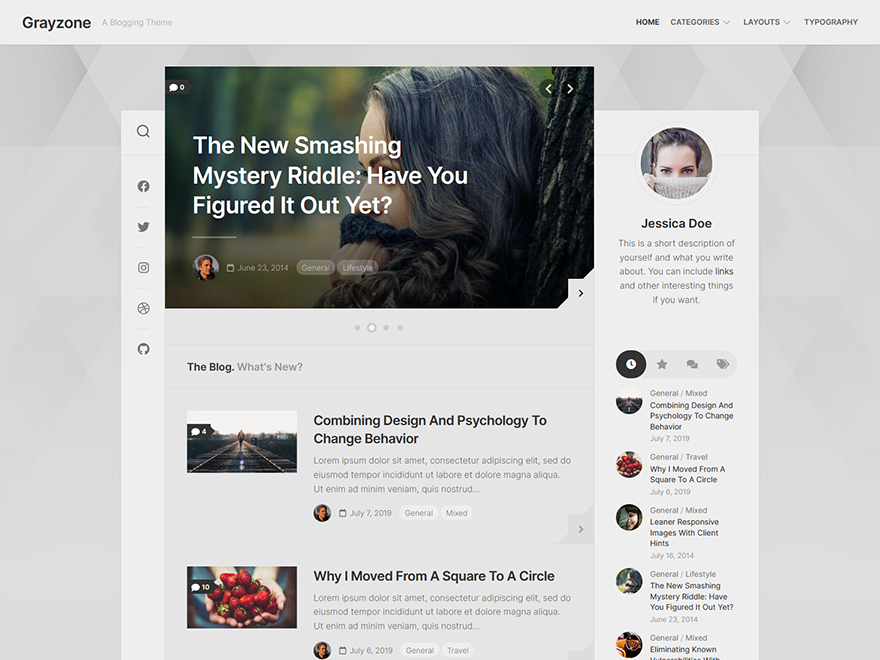
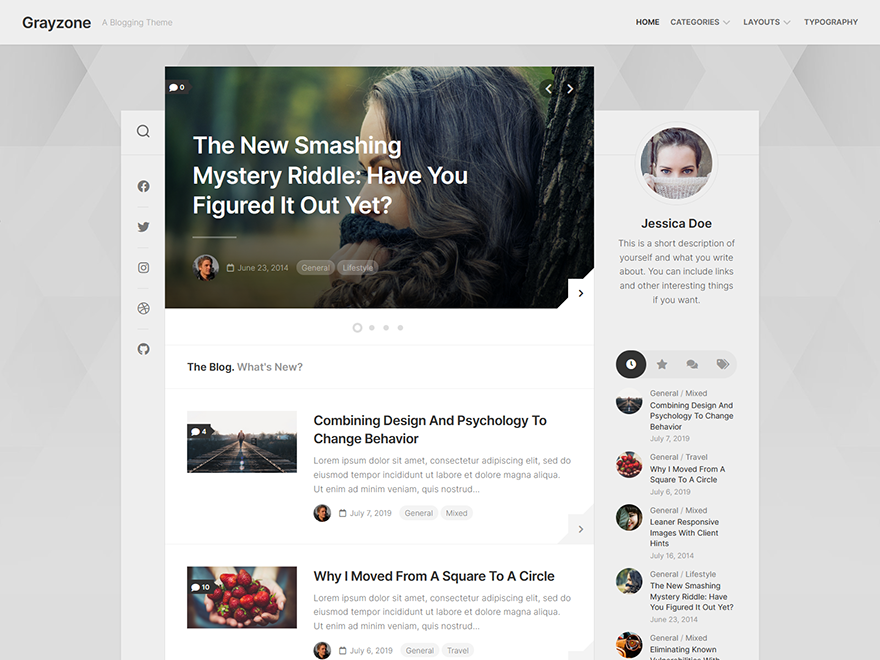
1.0.5

Changed region(s): [[0.1841, 0.4242, 0.675, 1.0]]

diff --git a/style.css b/style.css
@@ -1,7 +1,7 @@
 /*
 Theme Name: Grayzone
 Theme URI: http://alx.media/themes/grayzone/
-Version: 1.0.4
+Version: 1.0.5
 Requires at least: 5.0
 Requires PHP: 5.6
 Tested up to: 6.0
@@ -514,7 +514,7 @@ h1, h2, h3, h4, h5, h6 { color: #333; font-weight: 300; -ms-word-wrap: break-wor
 .container-inner { min-width: 100%; width: 100%; margin: 0 auto; }
 .main { }
 .main-inner { display: flex; position: relative; min-height: 600px; /* instead of sticky footer */ }
-.content { background: #e5e5e5; margin: -80px auto 0; position: relative; width: 100%; box-sizing: border-box; }
+.content { background: #fff; margin: -80px auto 0; position: relative; width: 100%; box-sizing: border-box; }
 .page .content { padding-top: 40px; }
 .content-inner { margin: 0 auto; }
 .pad { padding: 30px 50px; }
@@ -630,7 +630,7 @@ box-shadow: inset 0 1px 1px rgba(0,0,0,0.4), 0 1px 0 rgba(255,255,255,0.03); }
 .pagination ul li a:before { font-family: "Font Awesome 5 Free"; font-weight: 900; font-size: 52px; line-height: 80px; display: block; }
 .pagination ul li.next a:before { content: "\f105"; }
 .pagination ul li.prev a:before { content: "\f104"; }
-.pagination ul li a { display: inline-block; font-size: 0; margin: 10px; width: 80px; height: 80px; border-radius: 100%; background: #eee; }
+.pagination ul li a { display: inline-block; font-size: 0; margin: 10px; width: 80px; height: 80px; border-radius: 100%; background: #f4f4f4; }
 
 /*  common : thumb icon
 /* ------------------------------------ */
@@ -880,8 +880,8 @@ box-shadow: 0 0 2px rgba(255,255,255,0.4);
 
 .slick-featured .slick-dots { bottom: -40px; }
 .slick-featured .slick-dots li { margin: 0 3px; }
-.slick-featured .slick-dots li button { background: #ccc; margin: 4px; height: 10px; width: 10px; border-radius: 100%; text-indent: -9999px; overflow: hidden; }
-.slick-featured .slick-dots .slick-active button { background: #f5f5f5; margin: 0; border: 4px solid #ccc; }
+.slick-featured .slick-dots li button { background: #ddd; margin: 4px; height: 10px; width: 10px; border-radius: 100%; text-indent: -9999px; overflow: hidden; }
+.slick-featured .slick-dots .slick-active button { background: #fff; margin: 0; border: 4px solid #ddd; }
 
 .featured-item-wrap { }
 .featured-item { background-color: #ccc; background-position: center; background-size: cover; overflow: hidden; position: relative; z-index: 2; overflow: hidden; width: 100%; float: left; height: 440px; position: relative; }
@@ -912,14 +912,14 @@ box-shadow: 0 0 2px rgba(255,255,255,0.4);
 .featured-category a { background: rgba(255,255,255,0.2); box-shadow: inset 0 1px 0 rgba(255,255,255,0.15); color: rgba(255,255,255,0.7); display: inline-block; padding: 2px 10px; border-radius: 20px; margin-top: -2px; }
 .featured-category a:hover { background: rgba(255,255,255,0.4); color: #fff; }
 
-.more-link { background: #ddd; color: #999; display: block; padding: 16px; position: absolute; right: 0; bottom: 0; }
+.more-link { background: #f4f4f4; color: #999; display: block; padding: 16px; position: absolute; right: 0; bottom: 0; }
 .more-link:hover { color: #999; padding-right: 30px; }
-.more-link:before { content:""; display: block; border-top: 20px solid transparent; border-bottom: 20px solid transparent; border-right: 20px solid #ddd; position: absolute; right: 0; top: -20px; }
-.more-link:after { content:""; display: block; border-left: 20px solid transparent; border-right: 20px solid transparent; border-bottom: 20px solid #ddd; position: absolute; left: -20px; bottom: 0; }
-.featured-item .more-link { background: #e5e5e5; color: #333; }
+.more-link:before { content:""; display: block; border-top: 20px solid transparent; border-bottom: 20px solid transparent; border-right: 20px solid #f4f4f4; position: absolute; right: 0; top: -20px; }
+.more-link:after { content:""; display: block; border-left: 20px solid transparent; border-right: 20px solid transparent; border-bottom: 20px solid #f4f4f4; position: absolute; left: -20px; bottom: 0; }
+.featured-item .more-link { background: #fff; color: #333; }
 .featured-item .more-link:hover { color: #333; }
-.featured-item .more-link:before { border-right-color: #e5e5e5; }
-.featured-item .more-link:after { border-bottom-color: #e5e5e5; }
+.featured-item .more-link:before { border-right-color: #fff; }
+.featured-item .more-link:after { border-bottom-color: #fff; }
 .list-card:hover .more-link { background: #e5e5e5; color: #999; }
 .list-card:hover .more-link:hover { color: #999; }
 .list-card:hover .more-link:before { border-right-color: #e5e5e5; }
@@ -995,7 +995,7 @@ box-shadow: 0 0 2px rgba(255,255,255,0.4);
 /* ------------------------------------------------------------------------- */
 .article-card { overflow: hidden; }
 .list-card { height: 100%; box-sizing: border-box; margin: 0 auto; max-width: 1280px; position: relative; padding: 40px; border-bottom: 1px solid rgba(0,0,0,0.05); transition: background-color .2s,border-color .2s,padding .2s; }
-.list-card:hover { background: rgba(255,255,255,0.3); }
+.list-card:hover { background: rgba(0,0,0,0.03); }
 .list-card:hover .thumb-icon { background: #fff; color: #111; }
 .list-card-wrap { display: block; position: relative; padding-left: 230px; min-height: 140px; }
 .list-card-left { position: absolute; left: 0; top: 0; }
@@ -1017,7 +1017,7 @@ box-shadow: 0 0 2px rgba(255,255,255,0.4);
 .list-card-author img { border-radius: 100%; display: block; }
 .list-card-date,
 .list-card-category { margin-top: 4px; }
-.list-card-category a { background: #eee; color: rgba(255,255,255,0.7); display: inline-block; padding: 2px 10px; border-radius: 20px; margin-top: -2px; }
+.list-card-category a { background: #f4f4f4; color: rgba(255,255,255,0.7); display: inline-block; padding: 2px 10px; border-radius: 20px; margin-top: -2px; }
 .list-card-category a:hover { color: #333; }
 .list-card:hover .list-card-category a { background: #ddd; }
 
@@ -1060,11 +1060,11 @@ box-shadow: 0 0 2px rgba(255,255,255,0.4);
 
 /*  single : sharrre
 /* ------------------------------------ */
-.sharrre-container { margin-top: -30px; border-bottom: 1px solid #d5d5d5; }
+.sharrre-container { margin-top: -30px; border-bottom: 1px solid #f4f4f4; }
 .sharrre-container > span { display: none; }
 .sharrre-header .sharrre { width: 25%; float: left; }
 .sharrre-header .box { display: block; padding: 15px 20px; border-top: 4px solid #000; border-bottom: 1px solid transparent; }
-.sharrre-header .count { width: 50%; background: #f4f4f4; color: #fff; display: block; font-size: 15px; font-weight: 900; line-height: 30px; position: relative; text-align: center; border-radius: 6px; border-bottom: 1px solid #ddd; }
+.sharrre-header .count { width: 50%; background: #f4f4f4; color: #fff; display: block; font-size: 15px; font-weight: 900; line-height: 30px; position: relative; text-align: center; border-radius: 6px; border-bottom: 1px solid #e5e5e5; }
 .sharrre-header .count:after { content:''; display: block; position: absolute; right: -12px; width: 0; height: 0; border: solid 6px transparent; border-left-color: #f4f4f4; bottom: 9px; }
 .sharrre-header .share { width: 30%; margin-left: 20%; display: block; font-size: 24px; font-weight: 600; line-height: 32px; padding: 0; text-align: center; text-decoration: none; }
 .sharrre-header .share,
@@ -1135,7 +1135,7 @@ box-shadow: 0 0 2px rgba(255,255,255,0.4);
 
 /*  single : author bio
 /* ------------------------------------ */
-.author-bio { background: #eee; padding: 0 20px 20px; border-radius: 3px; position: relative; color: #777; margin: 40px 0; text-align: center; }
+.author-bio { background: #f4f4f4; padding: 0 20px 20px; border-radius: 3px; position: relative; color: #777; margin: 40px 0; text-align: center; }
 .author-bio .bio-avatar { width: 64px; height: auto; position: relative; display: inline-block; margin-top: -32px; }
 .author-bio .bio-avatar:after { background: #333; position: absolute; right: 0; bottom: 0; padding: 4px 4px; content: "\f303"; color: #fff; font-size: 10px; line-height: 12px; width: 12px; font-style: normal; font-family: "Font Awesome 5 Free"; font-weight: 900; text-align: center; border-radius: 100%; }
 .author-bio .bio-avatar img { display: block; width: 100%; height: auto; border-radius: 100%; }
@@ -1159,7 +1159,7 @@ box-shadow: 0 0 2px rgba(255,255,255,0.4);
 
 /*  single : post-nav
 /* ------------------------------------ */
-.post-nav { background: #eee; margin-bottom: 40px; }
+.post-nav { background: #f4f4f4; margin-bottom: 40px; }
 .post-nav li { width: 50%; display: inline; float: left; }
 .post-nav li a { position: relative; display: block; padding-top: 10px; padding-bottom: 10px; }
 .post-nav li i { color: #ccc; font-size: 18px; position: absolute; top: 50%; margin-top: -10px; }
@@ -1379,7 +1379,7 @@ box-shadow: 0 0 2px rgba(255,255,255,0.4);
 
 .comment-tabs { margin-bottom: 30px; }
 .comment-tabs li { float: left; }
-.comment-tabs li a { background: #eee; border-radius: 3px; font-weight: 600; padding: 10px 14px; margin-bottom: 4px; display: block; color: #aaa; }
+.comment-tabs li a { background: #f4f4f4; border-radius: 3px; font-weight: 600; padding: 10px 14px; margin-bottom: 4px; display: block; color: #aaa; }
 .comment-tabs li:first-child a { margin-right: 4px; }
 .comment-tabs li a:hover { color: #333; }
 .comment-tabs li span { background-color: #fff; padding: 0 6px; margin-left: 8px; -webkit-border-radius: 4px; border-radius: 4px; }
@@ -1445,7 +1445,7 @@ box-shadow: 0 0 2px rgba(255,255,255,0.4);
 li #reply-title { font-size: 0; margin: 0!important; padding: 0; height: 0; border-top: 0; }
 #cancel-comment-reply-link { color: #999; display: block; position: absolute; bottom: 26px; right: 20px; font-size: 12px; }
 #cancel-comment-reply-link:hover { color: #777; }
-#commentform { background: #eee; padding: 10px 20px 20px; margin-bottom: 15px; border-radius: 3px; }
+#commentform { background: #f4f4f4; padding: 10px 20px 20px; margin-bottom: 15px; border-radius: 3px; }
 #commentform p.comment-form-author { width: 48%; float: left; }
 #commentform p.comment-form-email { width: 48%; float: right; }
 #commentform p.comment-form-url,
@@ -1478,10 +1478,10 @@ li #reply-title { font-size: 0; margin: 0!important; padding: 0; height: 0; bord
 .wp-pagenavi a:active,
 .wp-pagenavi span.current { color: #333; }
 
-.wp-pagenavi a { background: #d5d5d5; border-radius: 20px; color: #333; border: none; box-shadow: inset 0 1px 0 rgba(0,0,0,0.05); }
+.wp-pagenavi a { background: #e5e5e5; border-radius: 20px; color: #333; border: none; box-shadow: inset 0 1px 0 rgba(0,0,0,0.05); }
 .wp-pagenavi a:hover,
 .wp-pagenavi a:active,
-.wp-pagenavi span.current { background: #f5f5f5; border-radius: 20px; border: none; box-shadow: 0 1px 0 rgba(0,0,0,0.05); }
+.wp-pagenavi span.current { background: #eee; border-radius: 20px; border: none; box-shadow: 0 1px 0 rgba(0,0,0,0.05); }
 
 /*  plugin : jetpack infinite scroll
 /* ------------------------------------ */
